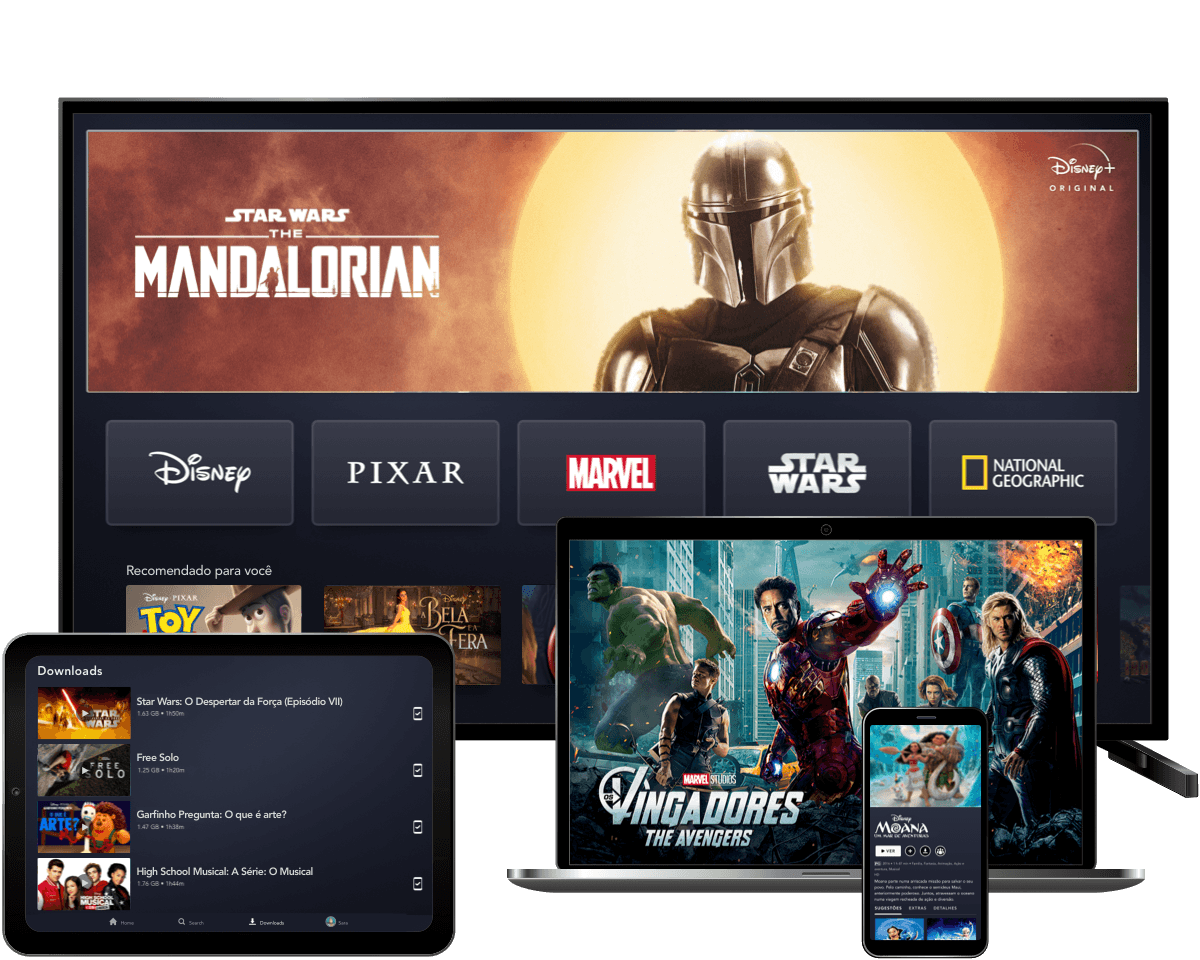
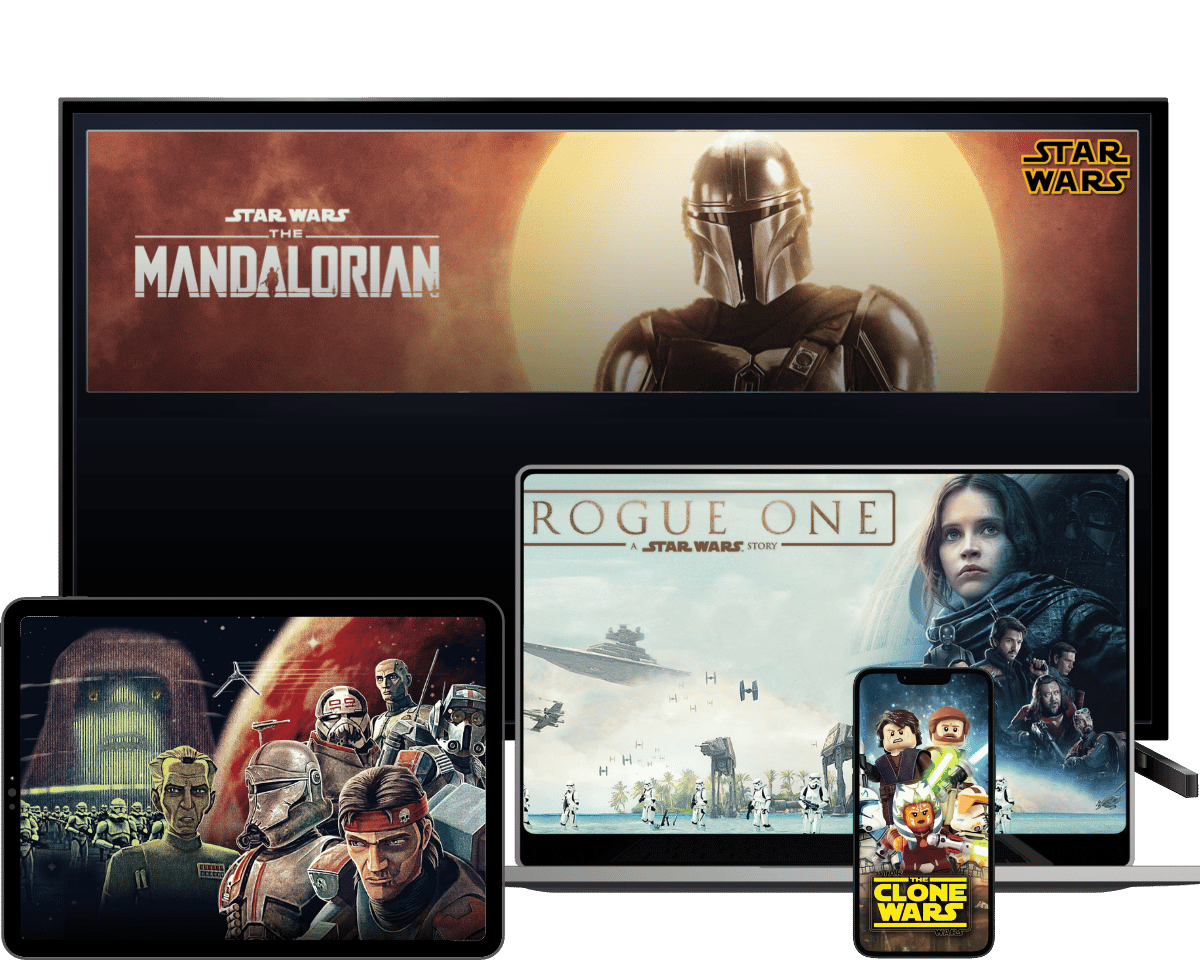
changing imgs and faq

diff --git a/index.html b/index.html
@@ -4,7 +4,7 @@
 <head>
     <meta charset="UTF-8">
     <meta name="viewport" content="width=device-width, initial-scale=1.0">
-    <title>Streaming Landing Page</title>
+    <title>All Star Wars Streaming Landing Page</title>
     <link rel="stylesheet" href="dist/css/main.css">
     <link rel="icon" href="./src/images/favicon.ico" type="image/x-icon">
 </head>
@@ -12,7 +12,7 @@
     <header class="header">
         <div class="header__container">
             <h1>
-                <img class="header__logo" src="./dist/images/disneyplus.svg" alt="Disney+">
+                <img class="header__logo" src="./dist/images/star-wars.svg" alt="Guerra Nas Estrelas">
             </h1>
             <ul class="header__links">
                 <li class="header__links__item">
@@ -26,139 +26,82 @@
     <section class="hero">
         <div class="hero__content">
             <h1 class="hero__content__branding">
-                <img src="./dist/images/disneyplus.svg" alt="Disney+">
+                <img src="./dist/images/guerraNasEstrelas.svg" alt="Guerra Nas Estrelas">
             </h1>
             <h3 class="title--small">
                 As Melhores Histórias, em um só lugar.
             </h3>
             <p>
-                <a href="" class="link-text">Assinar o Disney+</a>
+                <a href="" class="link-text">Assinar o Guerra Nas Estrelas 1080p</a>
                 <br>
                 <spam class="text">
-                    R$27,90/mês. Sem contrato.
+                    R$7,90/mês. com contrato.
                 </spam>
             </p>
             <ul class="hero__content__combos">
                 <li class="hero__content__combos__combo">
-                    <img src="./dist/images/logos/disney_star_plus.png" alt="Combo Star+ Disney+">
-                    <button class="button">Assine Agora</button>
-                    <span class="text">R$ 45,90/mês*</span>
+                    <button class="button">Assine Mensal 4k</button>
+                    <span class="text">R$ 14,90/mês com contrato</span>
                 </li>
                 <li class="hero__content__combos__combo"> 
-                    <img src="./dist/images/logos/disney_star_plus_starzplay.png" alt="Combo Star+ Disney+">
-                    <button class="button">Assine Agora</button>
-                    <span class="text">R$ 45,90/mês*</span>
+                    <button class="button">Assine Anual 4k</button>
+                    <span class="text">R$ 129,90/ano</span>
                 </li>
             </ul>
             <p class="text--small">
-                *Preço promocional por tempo limitado. Após o período promocional, o preço será de R$ 54,90/mês.
+                *Preço promocional por tempo limitado. Após o período promocional, o preço será de R$ 24,90/mês.
             </p>
         </div>
     </section>
     <section class="shows">
         <nav class="shows__tabs">
             <button data-tab-button="em_breve" class="shows__tabs__button shows__tabs__button--is-active">
-                Em breve
+                Filmes
             </button>
             <button data-tab-button="populares" class="shows__tabs__button">
-                Mais Populares
-            </button>
-            <button data-tab-button="star_plus" class="shows__tabs__button">
-                Mais no Star+
+                Series
             </button>
         </nav>
         <ul data-tab-id="em_breve" class="shows__list shows__list--is-active">
             <li class="shows__list__item">
-                <img src="./dist/images/em_breve/spidey.jpg" alt="Spidey">
+                <img src="./dist/images/filmes/ep1.png" alt="Episodio 1">
             </li>
             <li class="shows__list__item">
-                <img src="./dist/images/em_breve/desencantada.jpg" alt="Desencantada">
+                <img src="./dist/images/filmes/ep2.png" alt="Episodio 2">
             </li>
             <li class="shows__list__item">
-                <img src="./dist/images/em_breve/lobisomem.jpg" alt="lobisomem">
+                <img src="./dist/images/filmes/ep3.png" alt="Episodio 3">
             </li>
             <li class="shows__list__item">
-                <img src="./dist/images/em_breve/sem_limites.jpg" alt="Sem Limites">
+                <img src="./dist/images/filmes/ep4.png" alt="Episodio 4">
             </li>
             <li class="shows__list__item">
-                <img src="./dist/images/em_breve/the_santa_clauses.jpg" alt="Santa Clauses">
+                <img src="./dist/images/filmes/ep5.png" alt="Episodio 5">
             </li>
             <li class="shows__list__item">
-                <img src="./dist/images/em_breve/willow.jpg" alt="willow">
+                <img src="./dist/images/filmes/ep6.png" alt="Episodio 6">
             </li>
         </ul>
         <ul data-tab-id="populares" class="shows__list">
             <li class="shows__list__item">
-                <img src="./dist/images/mais_populares/bluey.jpg" alt="Bluey">
+                <img src="./dist/images/seriado/ahsoka.png" alt="Seriado Ahsoka">
             </li>
             <li class="shows__list__item">
-                <img src="./dist/images/mais_populares/cavaleira_da_lua.jpg" alt="Cavaleiro da Lua">
+                <img src="./dist/images/seriado/andor.png" alt="Seriado Andor">
             </li>
             <li class="shows__list__item">
-                <img src="./dist/images/mais_populares/o_incrivel_dr_pol.jpg" alt="Dr Pol">
+                <img src="./dist/images/seriado/cloneWars.png" alt="Seriado Clone Wars">
             </li>
             <li class="shows__list__item">
-                <img src="./dist/images/mais_populares/obi_wan.jpg" alt="Obi wan">
+                <img src="./dist/images/seriado/obi_wan.jpg" alt="Seriado Obi wan">
             </li>
             <li class="shows__list__item">
-                <img src="./dist/images/mais_populares/red.jpg" alt="Red">
+                <img src="./dist/images/seriado/mando.png" alt="Seriado Mando">
             </li>
             <li class="shows__list__item">
-                <img src="./dist/images/mais_populares/tudo_igual_sqn.jpg" alt="Tudo Igual">
+                <img src="./dist/images/seriado/hanSolo.png" alt="Seriado Han Solo">
             </li>
         </ul>
-        <ul data-tab-id="star_plus" class="shows__list">
-            <li class="shows__list__item">
-                <img src="./dist/images/mais_no_star_plus/belair.jpg" alt="Belair">
-            </li>
-            <li class="shows__list__item">
-                <img src="./dist/images/mais_no_star_plus/libertadores.jpg" alt="Libertadores">
-            </li>
-            <li class="shows__list__item">
-                <img src="./dist/images/mais_no_star_plus/nba.jpg" alt="NBA">
-            </li>
-            <li class="shows__list__item">
-                <img src="./dist/images/mais_no_star_plus/os_simpson.jpg" alt="Simpsons">
-            </li>
-            <li class="shows__list__item">
-                <img src="./dist/images/mais_no_star_plus/premier_league.jpg" alt="Premier">
-            </li>
-            <li class="shows__list__item">
-                <img src="./dist/images/mais_no_star_plus/the_kardashians.jpg" alt="The Kardashians">
-            </li>
-        </ul>
-    </section>
-    <section class="plans">
-        <h2 class="title--big">Escolha seu Plano</h2>
-        <ul class="plans__list">
-            <li class="plans__list__item">
-                <img src="./dist/images/logos/disneyplus_underline.png" alt="Disney+">
-                <strong class="title--small">R$33,90*</strong>
-                <p class="text--big">
-                    Assista a filmes, séries e documentários da Disney, Pixar, Marvel, Star Wars e National Geographic.
-                </p>
-                <button class="button">Assine agora</button>
-            </li>
-            <li class="plans__list__item">
-                <img src="./dist/images/logos/disney_star_plus_sm.png" alt="Disney+">
-                <strong class="title--small">R$55,90*</strong>
-                <p class="text--big">
-                    Combo com Disney+ e Star+ Os melhores torneios e ligas esportivas do mundo ao vivo com a ESPN Produções locais, programas, séries e filmes premiados exclusivos do Star+
-                </p>
-                <button class="button">Assine agora</button>
-            </li>
-            <li class="plans__list__item">
-                <img src="./dist/images/logos/disney_star_plus_starzplay_underline.png" alt="Disney+">
-                <strong class="title--small">R$65,90*</strong>
-                <p class="text--big">
-                    Pacote com Disney+, Star+ e Starzplay. A melhor seleção de filmes, séries e programas de TV premiados.
-                </p>
-                <button class="button">Assine agora</button>
-            </li>
-        </ul>
-        <p class="text--small">
-            *Preço promocional por tempo limitado. Após o período promocional, o preço será de R$ 27,90/mês.
-        </p>
     </section>
     <section class="image-text-section">
         <img src="./dist/images/tv_pc_tablet_celular.png" alt="Image com TV Tablet Celular">
@@ -171,15 +114,10 @@
     </section>
     <section class="image-text-section image-text-section--image-full-width">
         <picture>
-            <source media="(max-width: 768px)" srcset="./dist/images/fundo_rei_leao_celular.png"/>
-            <img src="./dist/images/fundo_rei_leao.png" alt="Image com TV Tablet Celular">
+            <source media="(max-width: 768px)" srcset="./dist/images/fundo_celular.png"/>
+            <img src="./dist/images/fundo_poster.png" alt="Image com TV Tablet Celular">
         </picture>
-        <div class="image-text-section__text__container image-text-section--image-full-width__text__container">
-            <h2 class="title--big">Baixe filmes e séries</h2>
-            <p class="text--big">
-                Baixe e assista quando e onde quiser. Assim, seus filmes e séries favoritos estarão sempre com você, até mesmo sem internet.
-            </p>
-        </div>
+
     </section>
     <section class="available-devices">
         <h2 class="title">Disponível nos seus dispositivos favoritos</h2>
@@ -230,24 +168,21 @@
         <ul class="faq__questions">
             <li class="faq__questions__item">
                 <div class="faq__questions__item__question" data-faq-question>
-                    O que está incluído no Disney+?
+                    O que está incluído no Guerra Nas Estrelas?
                 </div>
                 <div class="faq__questions__item__answer text--big">
-                    O Disney+ oferece: </br> Experiência de entretenimento exclusiva. </br> As melhores histórias da Disney, Pixar, Marvel, Star Wars e National Geographic, tudo em um só lugar. </br>
-                    Downloads ilimitados em até 10 dispositivos compatíveis. </br> Mais de 300 títulos em 4K UHD e HDR. </br> 
-                    A possibilidade de assistir em até 4 dispositivos compatíveis simultaneamente sem custo adicional.</br> IMAX Enhanced: disponível para alguns títulos da Marvel em dispositivos compatíveis com o Disney+. </br>
+                    O Guerra Nas Estrelas oferece: </br> Experiência de entretenimento exclusiva. </br> As melhores histórias da Guerra nas Estrelas, incluindo as trilogias clássicas, os spin-offs e as novas séries originais tudo em um só lugar. </br>
+                    Downloads ilimitados em até 10 dispositivos compatíveis. </br> Mais de 30 títulos em 4K UHD e HDR. </br> 
+                    A possibilidade de assistir em até 4 dispositivos compatíveis simultaneamente sem custo adicional.</br> IMAX Enhanced: disponível para alguns títulos recentes em dispositivos compatíveis com o Guerra Nas Estrelas. </br>
                 </div>
             </li>
             <li class="faq__questions__item">
                 <div class="faq__questions__item__question" data-faq-question>
-                    Já tem o Disney+ ou o Star+ e quer o Combo+?
+                    Quando vou receber o Poster?
                 </div>
                 <div class="faq__questions__item__answer text--big">
-                    Ao assinar o Combo+: </br> O valor da sua assinatura existente será descontado do preço do Combo+. </br>
-                    Se você assina o plano mensal, o valor que você paga mensalmente será descontado do preço do Combo+. </br>
-                    Se você tem uma assinatura anual do Disney+ cobrada diretamente pelo Disney+, não é possível mudar para o Combo+ no momento. Entre em contato com o suporte do Disney+ para conhecer suas opções. </br> 
-                    Você vai receber um e-mail com os valores detalhados assim que finalizar o pagamento. </br>
-                    Lembre-se: você pode cancelar a assinatura quando quiser. </br> No momento, apenas a assinatura mensal do Combo+ está disponível.
+                    Se você se inscreveu em nossa assinatura que inclui um pôster, ele será enviado para o endereço fornecido durante o cadastro. </br> O envio geralmente leva de 5 a 10 dias úteis após a confirmação da sua assinatura. </br>
+                    Fique atento ao e-mail de confirmação com detalhes sobre o rastreamento do seu pedido! </br> No momento, apenas a assinatura anual inclui o pôster de bonus.
                 </div>
             </li>
             <li class="faq__questions__item">
@@ -263,23 +198,23 @@
                     Como posso ver conteúdo com classificação indicativa até 16 e 18?
                 </div>
                 <div class="faq__questions__item__answer text--big">
-                    Para poder acessar o catálogo completo que inclui conteúdo com classificação indicativa até 16 e 18, todos os usuários do Disney+ na América Latina devem atualizar as configurações de controle parental do perfil.
-                    É possível restringir o conteúdo de cada perfil e também adicionar um PIN de bloqueio. Os usuários que preferirem manter a configuração atual vão continuar aproveitando o Disney+ com a classificação indicativa até 14, podendo alterá-la a qualquer momento em "Editar Perfis".
+                    Para poder acessar o catálogo completo que inclui conteúdo com classificação indicativa até 16 e 18, todos os usuários do Guerra Nas Estrelas na América Latina devem atualizar as configurações de controle parental do perfil.
+                    É possível restringir o conteúdo de cada perfil e também adicionar um PIN de bloqueio. Os usuários que preferirem manter a configuração atual vão continuar aproveitando o Guerra Nas Estrelas com a classificação indicativa até 14, podendo alterá-la a qualquer momento em "Editar Perfis".
                 </div>
             </li>
             <li class="faq__questions__item">
                 <div class="faq__questions__item__question" data-faq-question>
-                    Onde Posso assistir ao Disney+?
+                    Há uma avaliação gratuita disponível?
                 </div>
                 <div class="faq__questions__item__answer text--big">
-                    O aplicativo do Disney+ está disponível em dispositivos móveis, navegadores, videogames, decodificadores e smart TVs. Confira a lista completa de dispositivos compatíveis na Central de Ajuda
+                    Sim! Nós oferecemos uma avaliação gratuita de 7 dias para que você possa explorar todo o conteúdo de Guerra nas Estrelas antes de se comprometer com uma assinatura. Aproveite para assistir a filmes icônicos e séries emocionantes!
                 </div>
             </li>
         </ul>
     </section>
     <footer class="footer">
         <div class="footer__container">
-            <img class="footer__logo" src="./dist/images/disneyplus.svg" alt="Disney+">
+            <img class="footer__logo" src="./dist/images/guerraNasEstrelas.svg" alt="Guerra Nas Estrelas">
         <ul class="footer__links">
             <li class="footer__links__item">
                 <div class="language-selector">
@@ -309,14 +244,14 @@
                 <a href="#" class="text--small">Ajuda</a>
             </li>
             <li class="footer__links__item">
-                <a href="#" class="text--small">Sobre o Disney+</a>
+                <a href="#" class="text--small">Sobre o Guerra Nas Estrelas</a>
             </li>
         </ul>
         <p class="text--small">
-            ® 2024 Disney, Disney+ e The Walt Disney Company. Todos os direitos reservados. Serviço de assinatura paga. Conteúdo sujeito a disponibilidade.
+            ® 2024 Max, Guerra Nas Estrelas e The Walt Disney Company. Todos os direitos reservados. Serviço de assinatura paga. Conteúdo sujeito a disponibilidade.
         </p>
         <p class="text--small">
-            Disney+ é um serviço pago, baseado em assinatura e sujeito a termos e condições. O serviço Disney+ é comercializado por The Walt Disney Company (Brasil) Ltda., World Trade Center, Av. Das Nações Unidas, 12.551, 12.555, 12.559, Piso 10, São Paulo/SP – CEP 04578-903, Brasil e CNPJ/M 73.042.962/0004-20
+            Guerra Nas Estrelas é um serviço pago, baseado em assinatura e sujeito a termos e condições. O serviço Guerra Nas Estrelas é comercializado por The Walt Disney Company (Brasil) Ltda., World Trade Center, Av. Das Nações Unidas, 12.551, 12.555, 12.559, Piso 10, São Paulo/SP – CEP 04578-903, Brasil e CNPJ/M 73.042.962/0004-20
         </p>
         </div>
     </footer>

diff --git a/src/styles/_hero.scss b/src/styles/_hero.scss
@@ -3,12 +3,12 @@
 .hero {
     padding: 5.6vw;
     min-height: 80vh;
-    background-image: url('../images/hero_desktop.jpeg');
+    background-image: url('../images/hero_desktop.png');
     text-align: center;
     background-size: cover;
 
     @media (max-width: 768px) {
-        background-image: url('../images/hero_celular.jpeg');
+        background-image: url('../images/hero_celular.png');
         padding-top: calc(50vw + 25px);
         background-size: contain;
         background-repeat: no-repeat;

diff --git a/src/styles/_variables.scss b/src/styles/_variables.scss
@@ -1,6 +1,6 @@
-$backGroundColor: #040714;
+$backGroundColor: #01030e;
 $primaryTextColor: silver;
-$secondaryTextColor: #f9f9f9;
-$backGroundColorPrimaryButton: #6421ff;
-$backGroundColorSecondaryButton: #0063e5;
+$secondaryTextColor: #ffc107;
+$backGroundColorPrimaryButton: #1648cf;
+$backGroundColorSecondaryButton: #494949;
 $backGroundColorDarkButton: #000;
